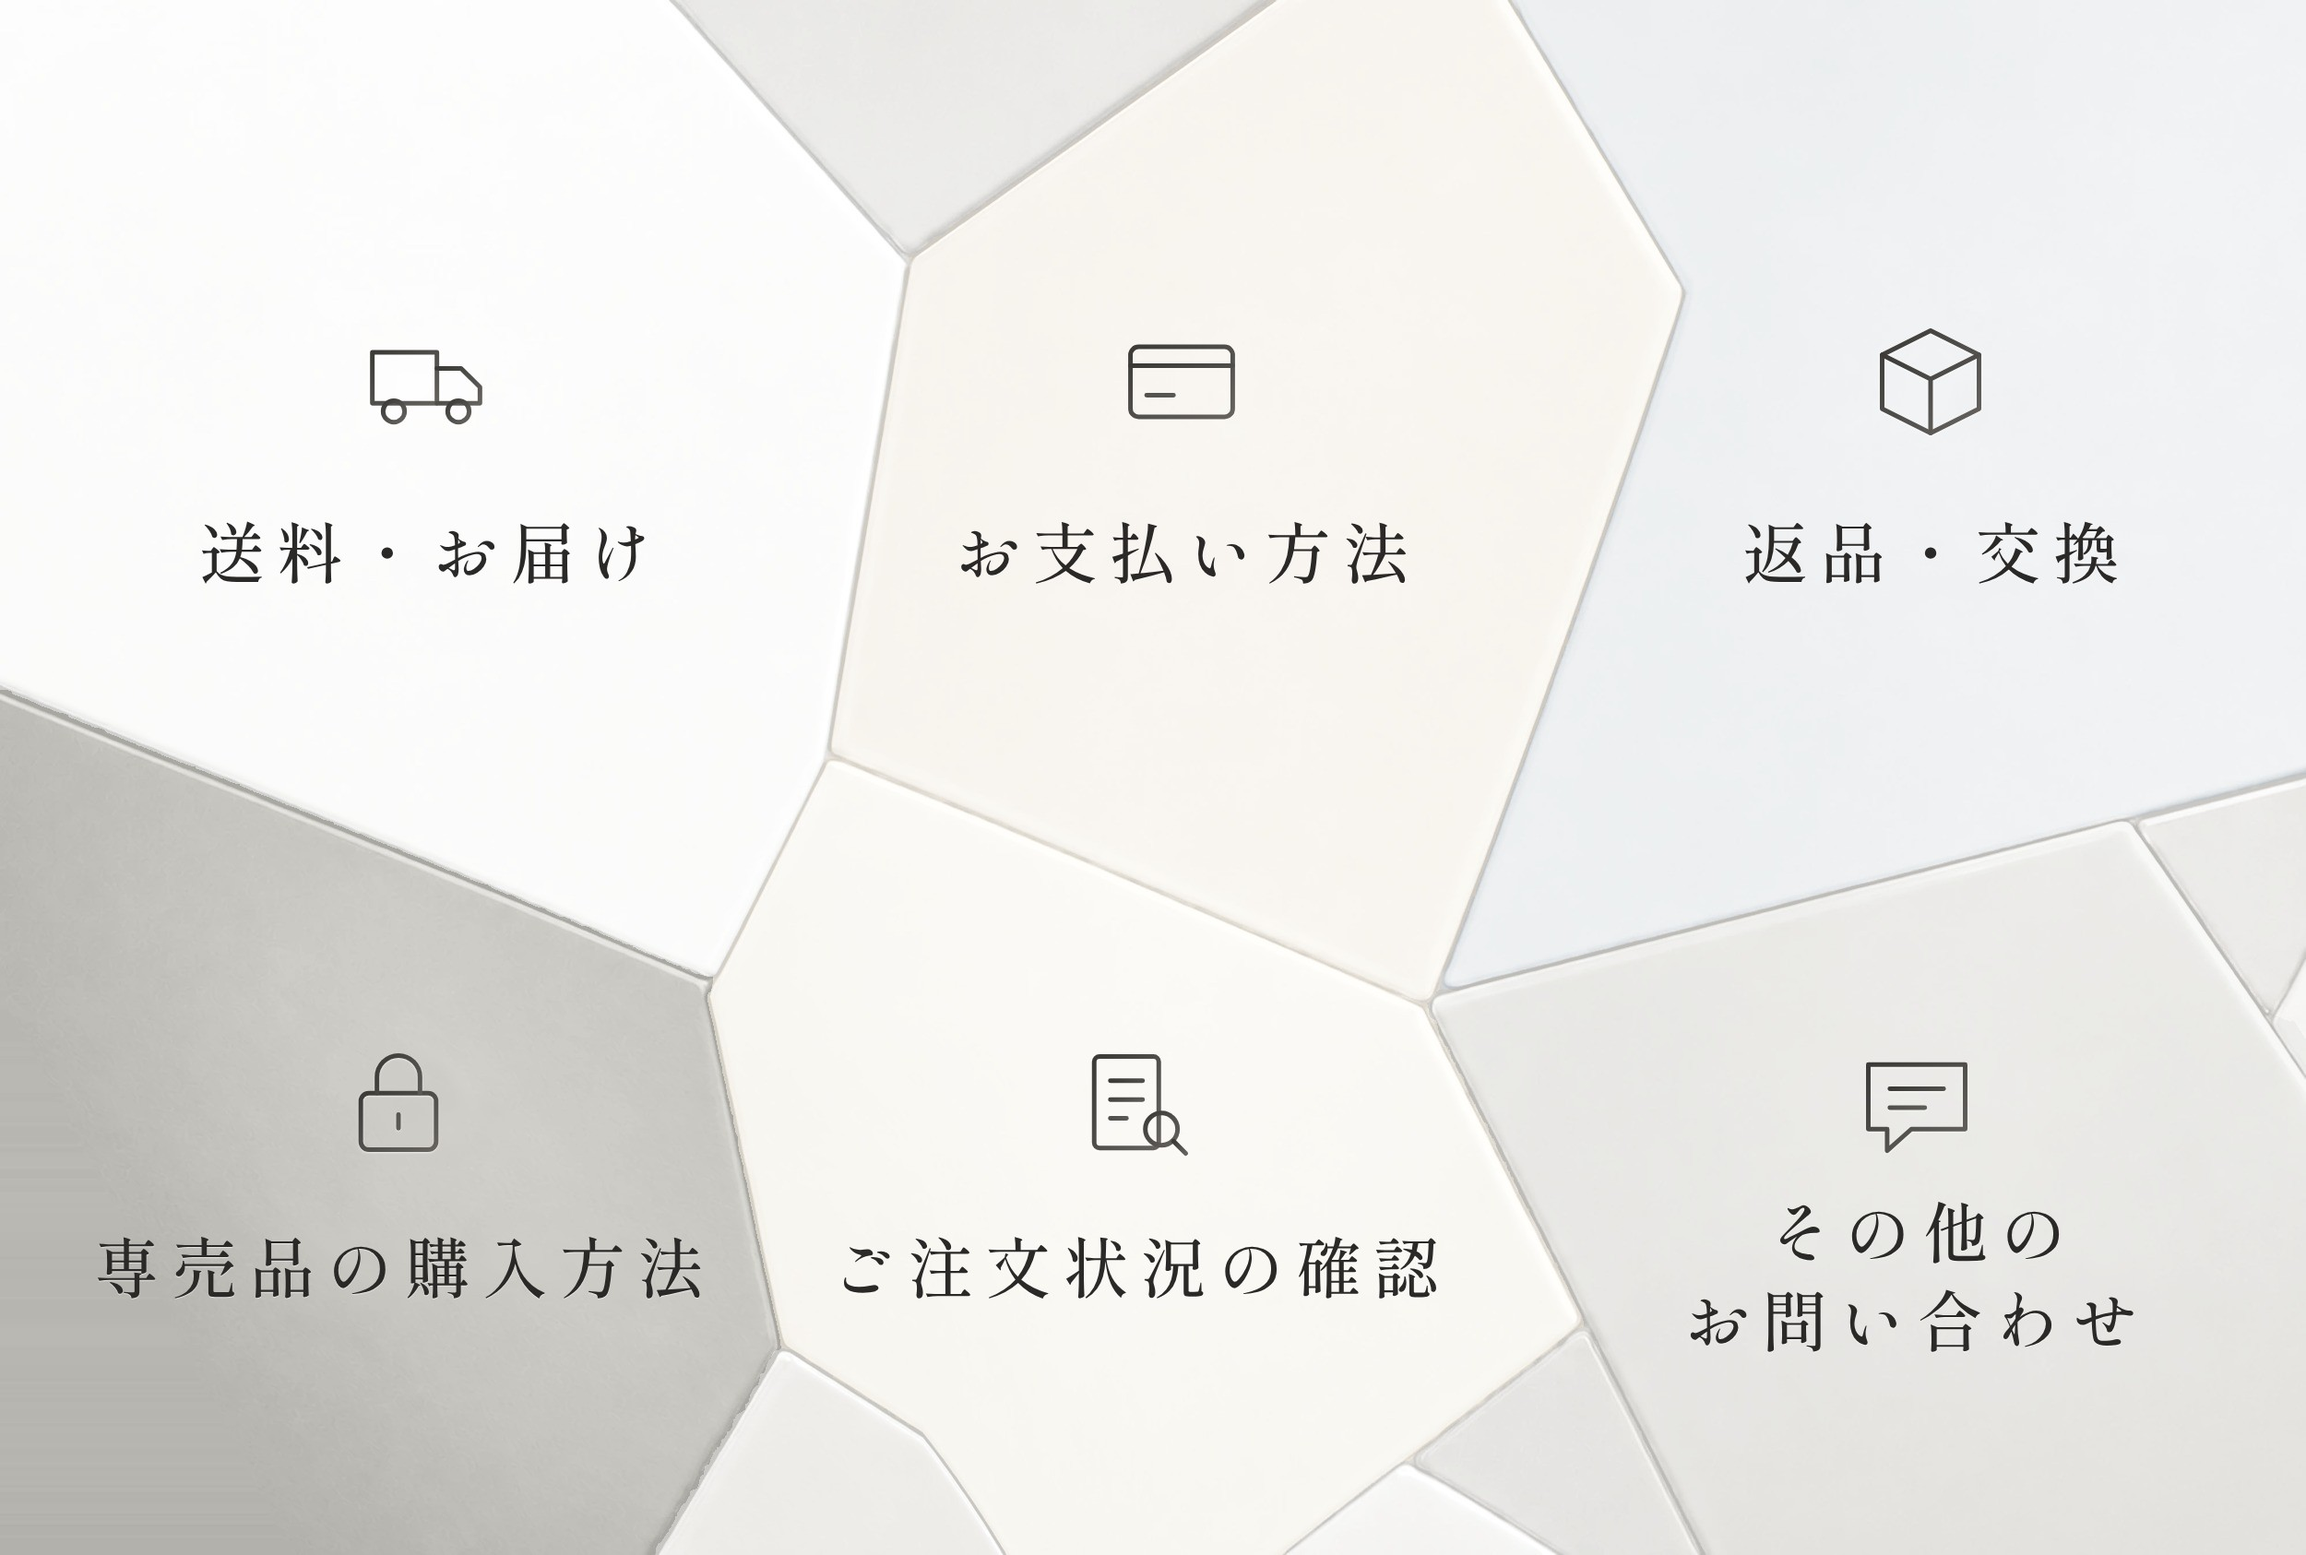
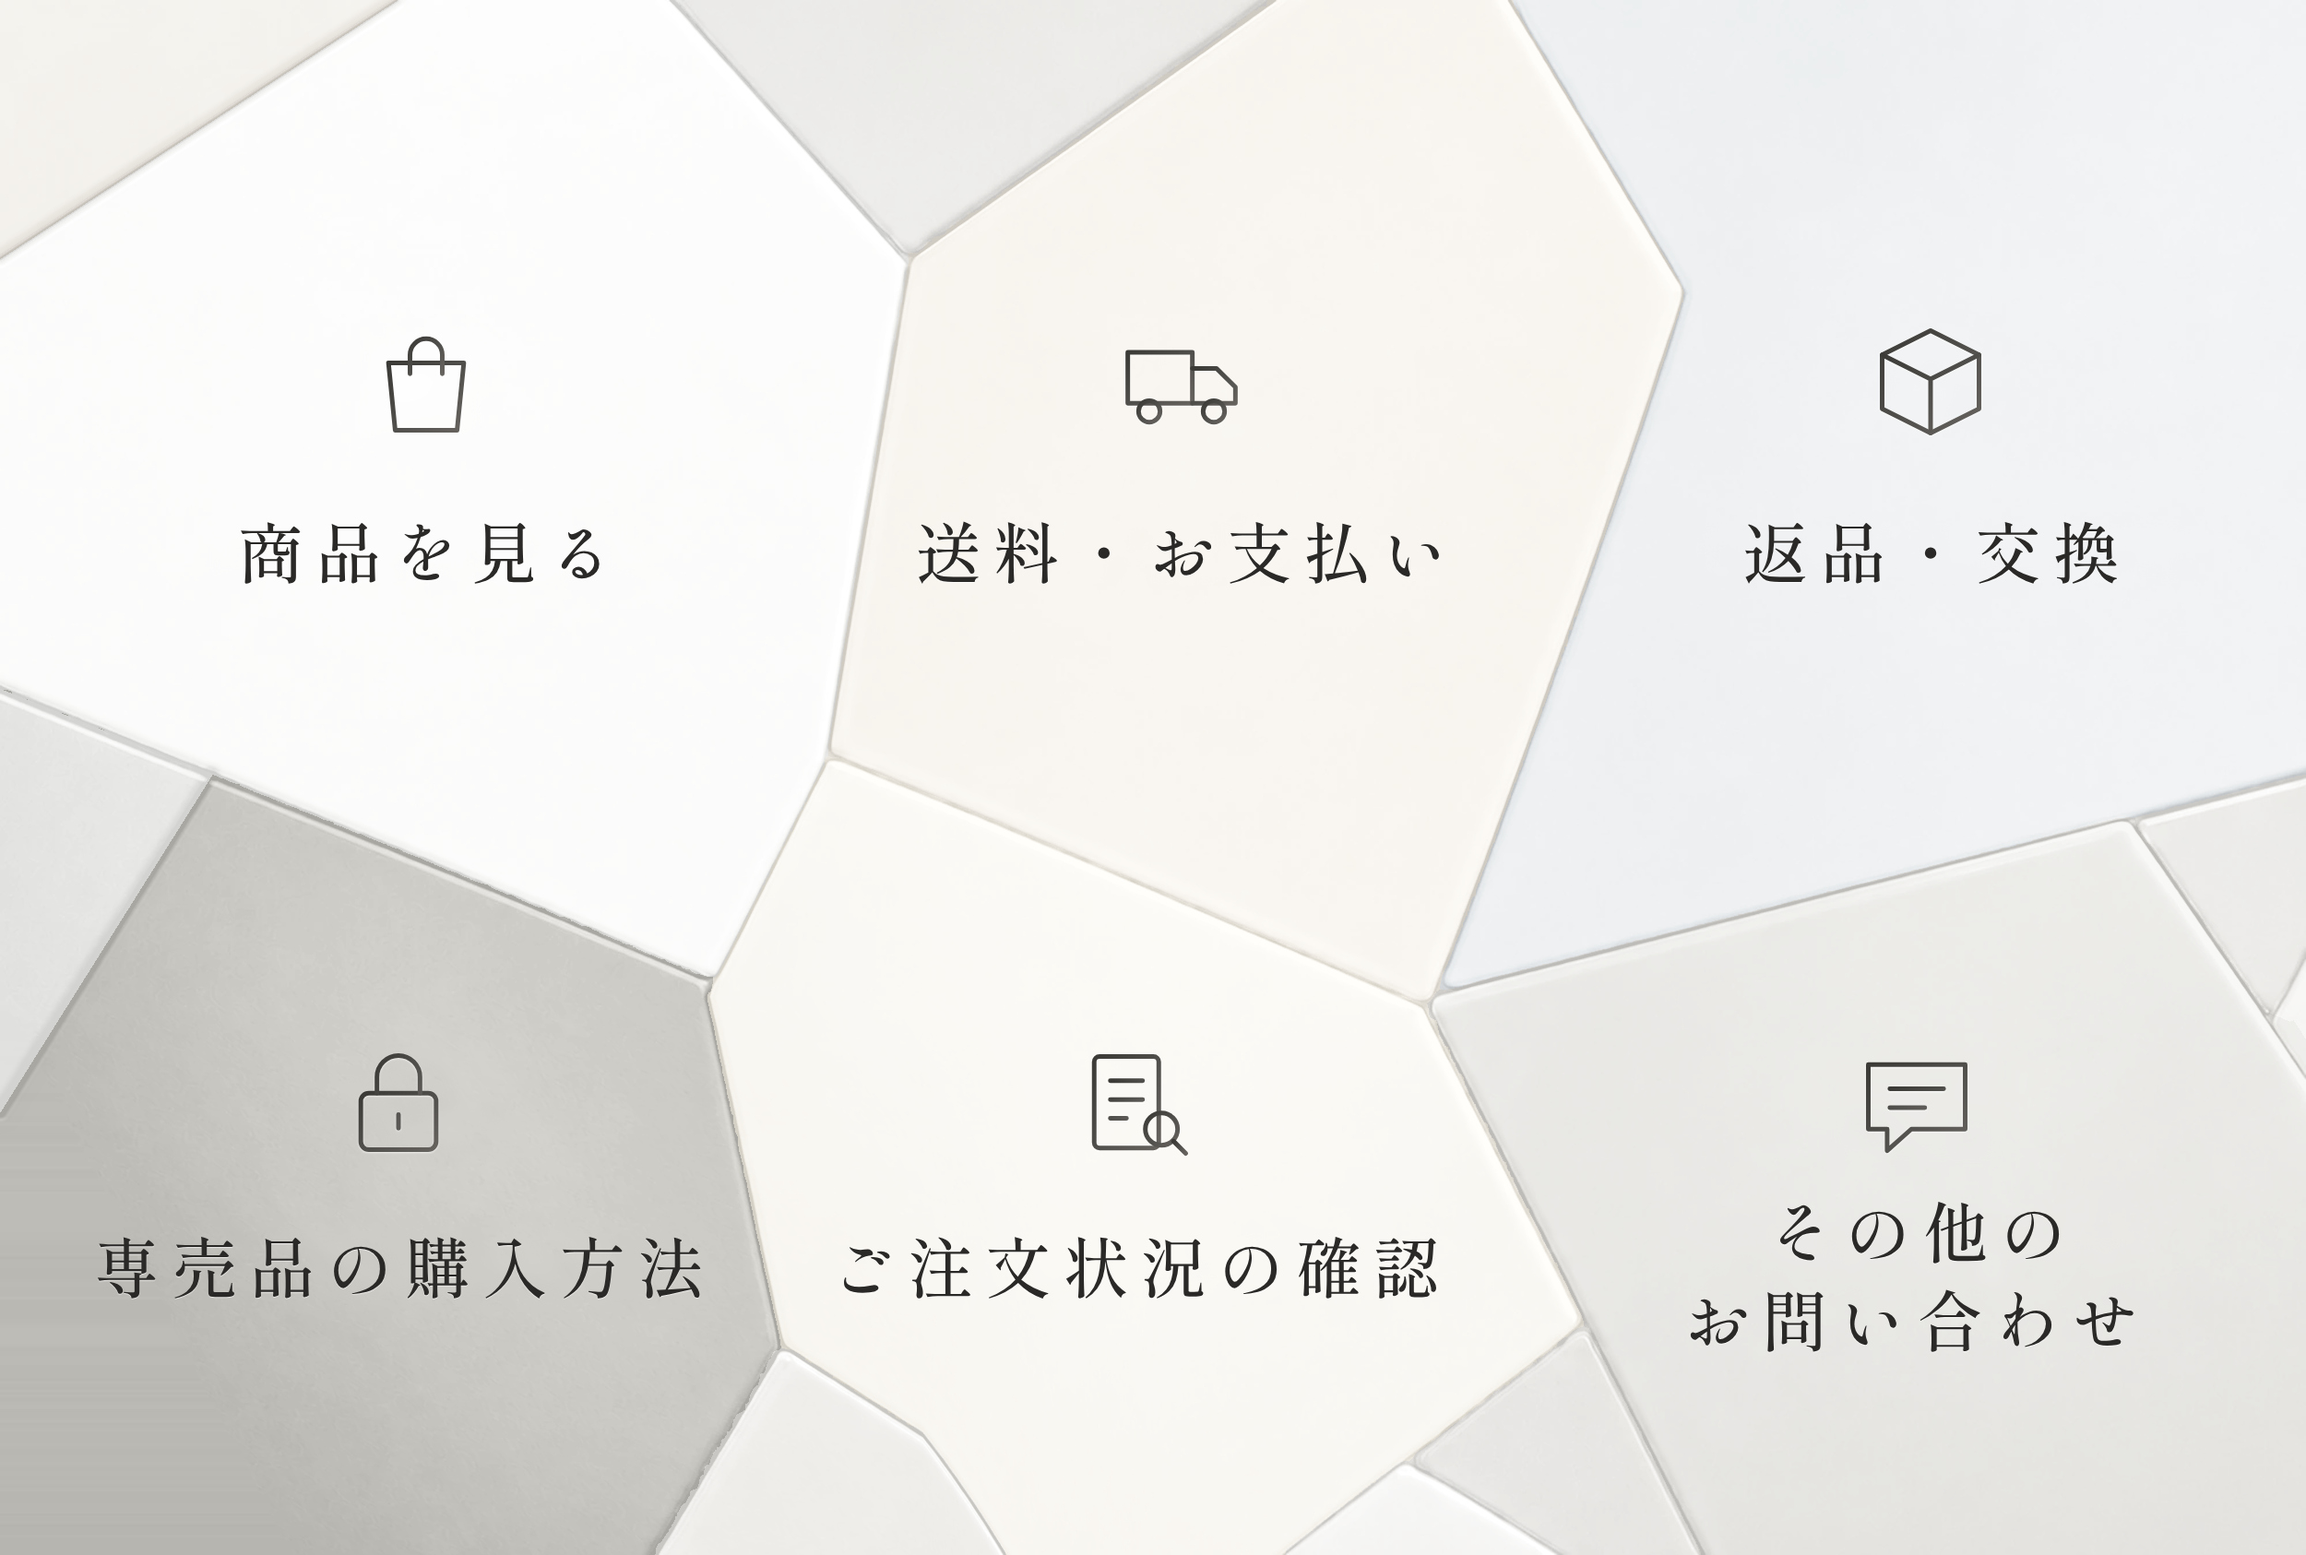
Rich menu: add a Shop link button, merge shipping and payment, final stone images
- New layout: 商品を見る (link to the store top page) / 送料・お支払い / 返品・交換 /
  専売品の購入方法 / ご注文状況の確認 / その他のお問い合わせ
- Bot answers the new button text 送料・お支払いについて with shipping, delivery and
  payment together; the old button texts keep working
- Stone images: two small stones added at the top-left corner and left edge with
  straight seams at different angles; saved at high quality (q98, 4:4:4, under 1MB)
- Simple variants removed; README updated

Claude-Session: https://claude.ai/code/session_016DSu6S5LDdLKjUTCpZZKxN

diff --git a/index.js b/index.js
@@ -233,12 +233,19 @@ function formatJst(now) {
 // ---------------------------------------------------------------------------
 // リッチメニュー（トーク画面下のボタン）
 // ボタンを押すと、ここに書いた文言がお客様から送られる。文言はリッチメニューの設定と一字一句そろえること。
+// 「商品を見る」はストアのトップページへのリンクなので、ボットには何も届かない。
+// 「送料・お届けについて」「お支払い方法について」は以前のメニュー用。差し替え前の画像でも困らないよう残している。
 // ---------------------------------------------------------------------------
 
 const MENU_REPLIES = {
   '送料・お届けについて': () => ({
     type: 'menu_shipping',
     text: ruleByType('faq_shipping').handle() + '\n' + ruleByType('faq_delivery_time').handle(),
+  }),
+  // 「送料・お届け」と「お支払い方法」を1つにまとめたボタン（2026年11月〜。空いた場所は「商品を見る」のリンク）
+  '送料・お支払いについて': () => ({
+    type: 'menu_shipping_payment',
+    text: ruleByType('faq_shipping').handle() + '\n' + ruleByType('faq_delivery_time').handle() + '\n\n' + ruleByType('faq_payment').handle(),
   }),
   'お支払い方法について': () => ({ type: 'menu_payment', text: ruleByType('faq_payment').handle() }),
   '返品・交換について': () => ({ type: 'menu_return', text: ruleByType('faq_return').handle() }),

diff --git a/test/feature-check.js b/test/feature-check.js
@@ -77,6 +77,7 @@ function check(name, ok, detail = '') {
   const menu = {
     '送料・お届けについて': ['menu_shipping', ['1,000円', '5営業日']],
     'お支払い方法について': ['menu_payment', ['クレジットカード']],
+    '送料・お支払いについて': ['menu_shipping_payment', ['1,000円', '5営業日', 'クレジットカード', '銀行振込']],
     '返品・交換について': ['menu_return', ['7日以内', '写真']],
     '専売品の購入方法': ['menu_password', ['カウンセリング']],
     'ご注文状況の確認': ['menu_order_status', ['ご注文番号']],

diff --git a/README.md b/README.md
@@ -53,23 +53,23 @@
 ### リッチメニューの設定
 
 LINE公式アカウントマネージャーの「リッチメニュー」→「作成」で、テンプレート「大」の6分割（上段A・B・C、下段D・E・F）を選び、
-画像に `richmenu/richmenu.png`（2500×1686）をアップロードする。各ボタンのアクションは「テキスト」にして、次の文言を**一字一句そのまま**入れる。
+画像に `richmenu/themes/stone-<テーマ>.jpg` のどれか1枚（2500×1686）をアップロードする。Aだけアクションを「リンク」、ほかは「テキスト」にして、次の内容を**一字一句そのまま**入れる。
 
-| 位置 | 画像の表示 | 送信するテキスト |
-|---|---|---|
-| A | 送料・お届け | 送料・お届けについて |
-| B | お支払い方法 | お支払い方法について |
-| C | 返品・交換 | 返品・交換について |
-| D | 専売品の購入方法 | 専売品の購入方法 |
-| E | ご注文状況の確認 | ご注文状況の確認 |
-| F | その他のお問い合わせ | その他のお問い合わせ |
+| 位置 | 画像の表示 | アクション | 設定する内容 |
+|---|---|---|---|
+| A | 商品を見る | リンク | https://simiclair.myshopify.com |
+| B | 送料・お支払い | テキスト | 送料・お支払いについて |
+| C | 返品・交換 | テキスト | 返品・交換について |
+| D | 専売品の購入方法 | テキスト | 専売品の購入方法 |
+| E | ご注文状況の確認 | テキスト | ご注文状況の確認 |
+| F | その他のお問い合わせ | テキスト | その他のお問い合わせ |
 
 文言は `index.js` の `MENU_REPLIES` と一致している必要がある。画像を作り直すときは `richmenu/richmenu.html` を編集して書き出す。
 
-デザイン違いの画像（2026年11月作成）を `richmenu/themes/` に置いている。LANE RESERVE の8つのカラーテーマ
-（default 華やか／blush ピンクベージュ／calm 爽やか／seiji 青白磁とリネン／hakuji ホワイト／solemn 厳か／luxe ゴールド／natural シェル）ごとに、
-`stone-<テーマ>.jpg`（当院のメニュー画像を元にした石のタイル版）と `simple-<テーマ>.jpg`（シンプル版）がある。
-16枚ともボタンの並びは上の表と同じなので、画像を差し替えるだけでよい（2500×1686、各300KB未満）。
+`richmenu/themes/stone-<テーマ>.jpg`（2026年11月作成、各1MB未満）は、当院のメニュー画像を元に LANE RESERVE の8つのカラーテーマ
+（default 華やか／blush ピンクベージュ／calm 爽やか／seiji 青白磁とリネン／hakuji ホワイト／solemn 厳か／luxe ゴールド／natural シェル）で色を変えたもの。
+8枚ともボタンの並びは上の表と同じ。`richmenu/richmenu.png` は最初の仮の画像で、ボタンの並びが古い（送料・お届け／お支払い方法が別々）。
+以前の並びの文言（送料・お届けについて／お支払い方法について）にもボットは今も答える。
 
 ### 配送状況の自動確認の設定（Shopify）
 
